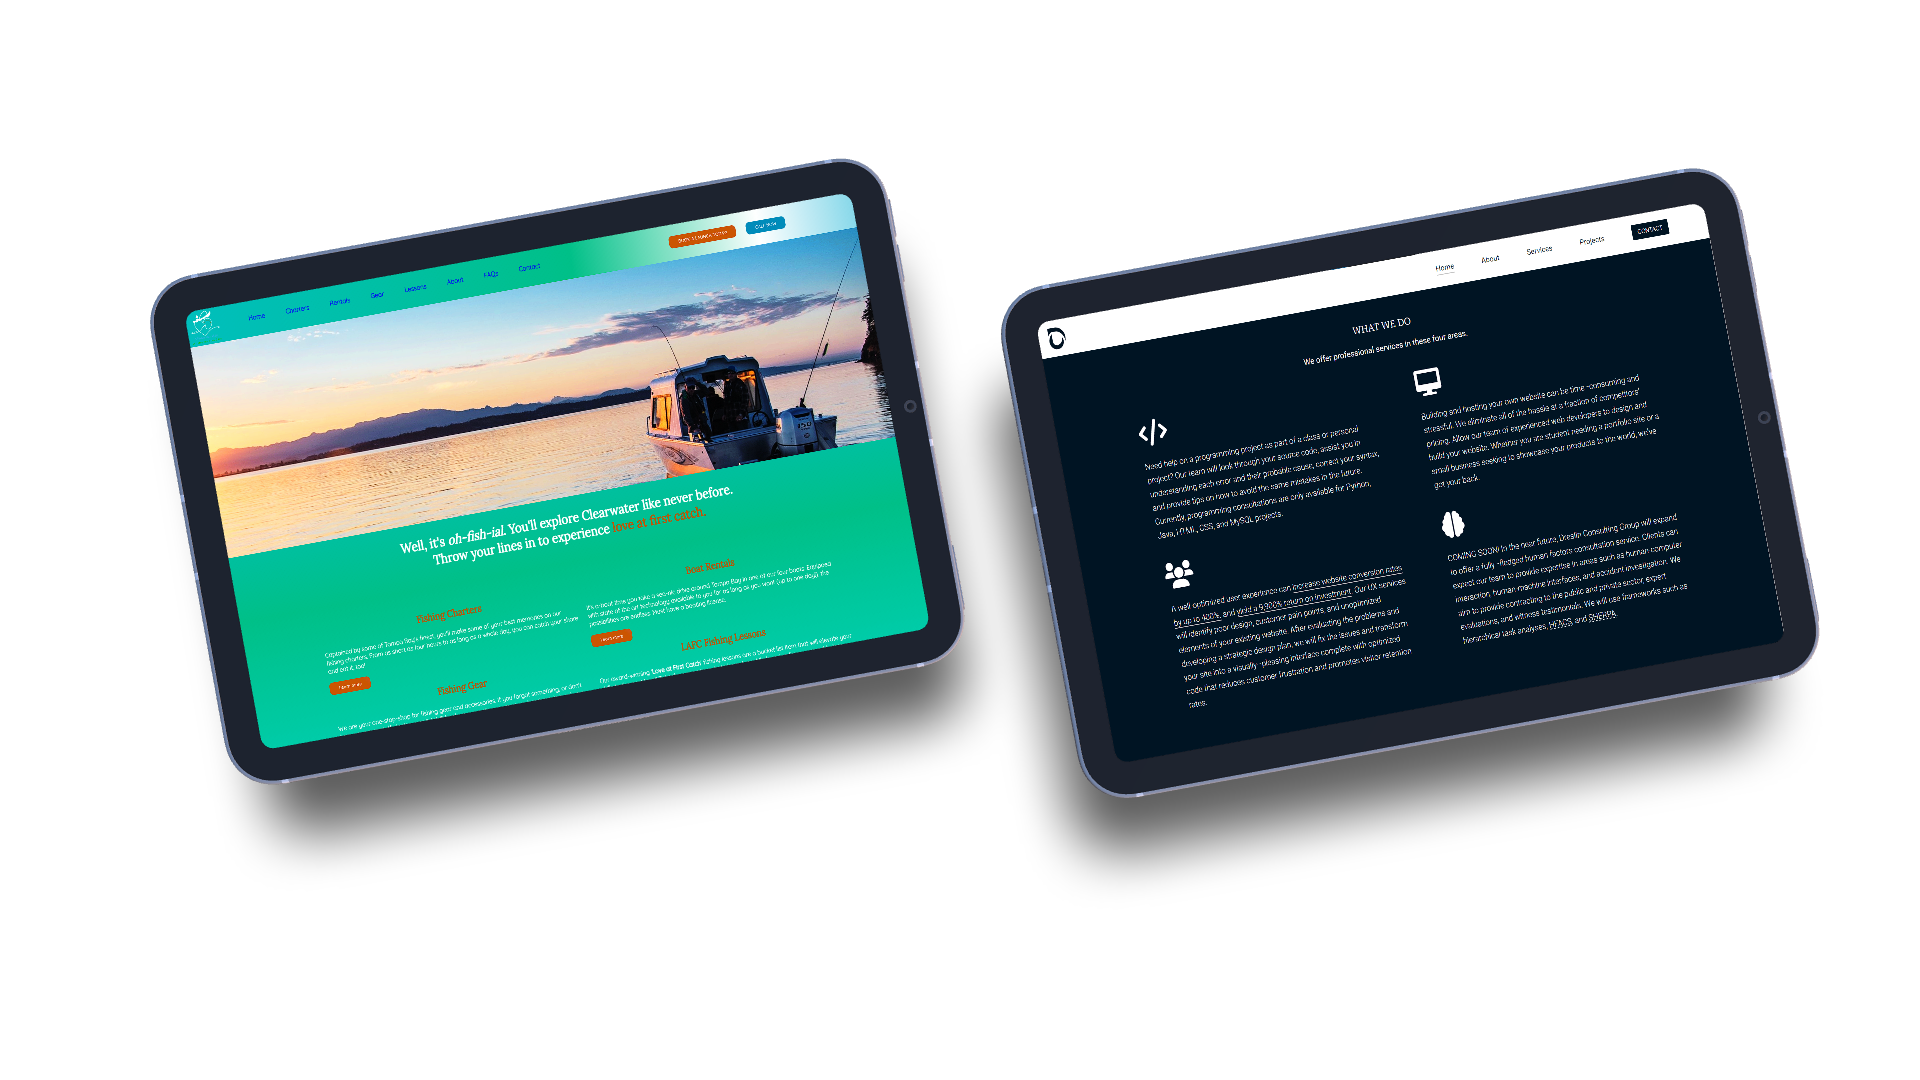
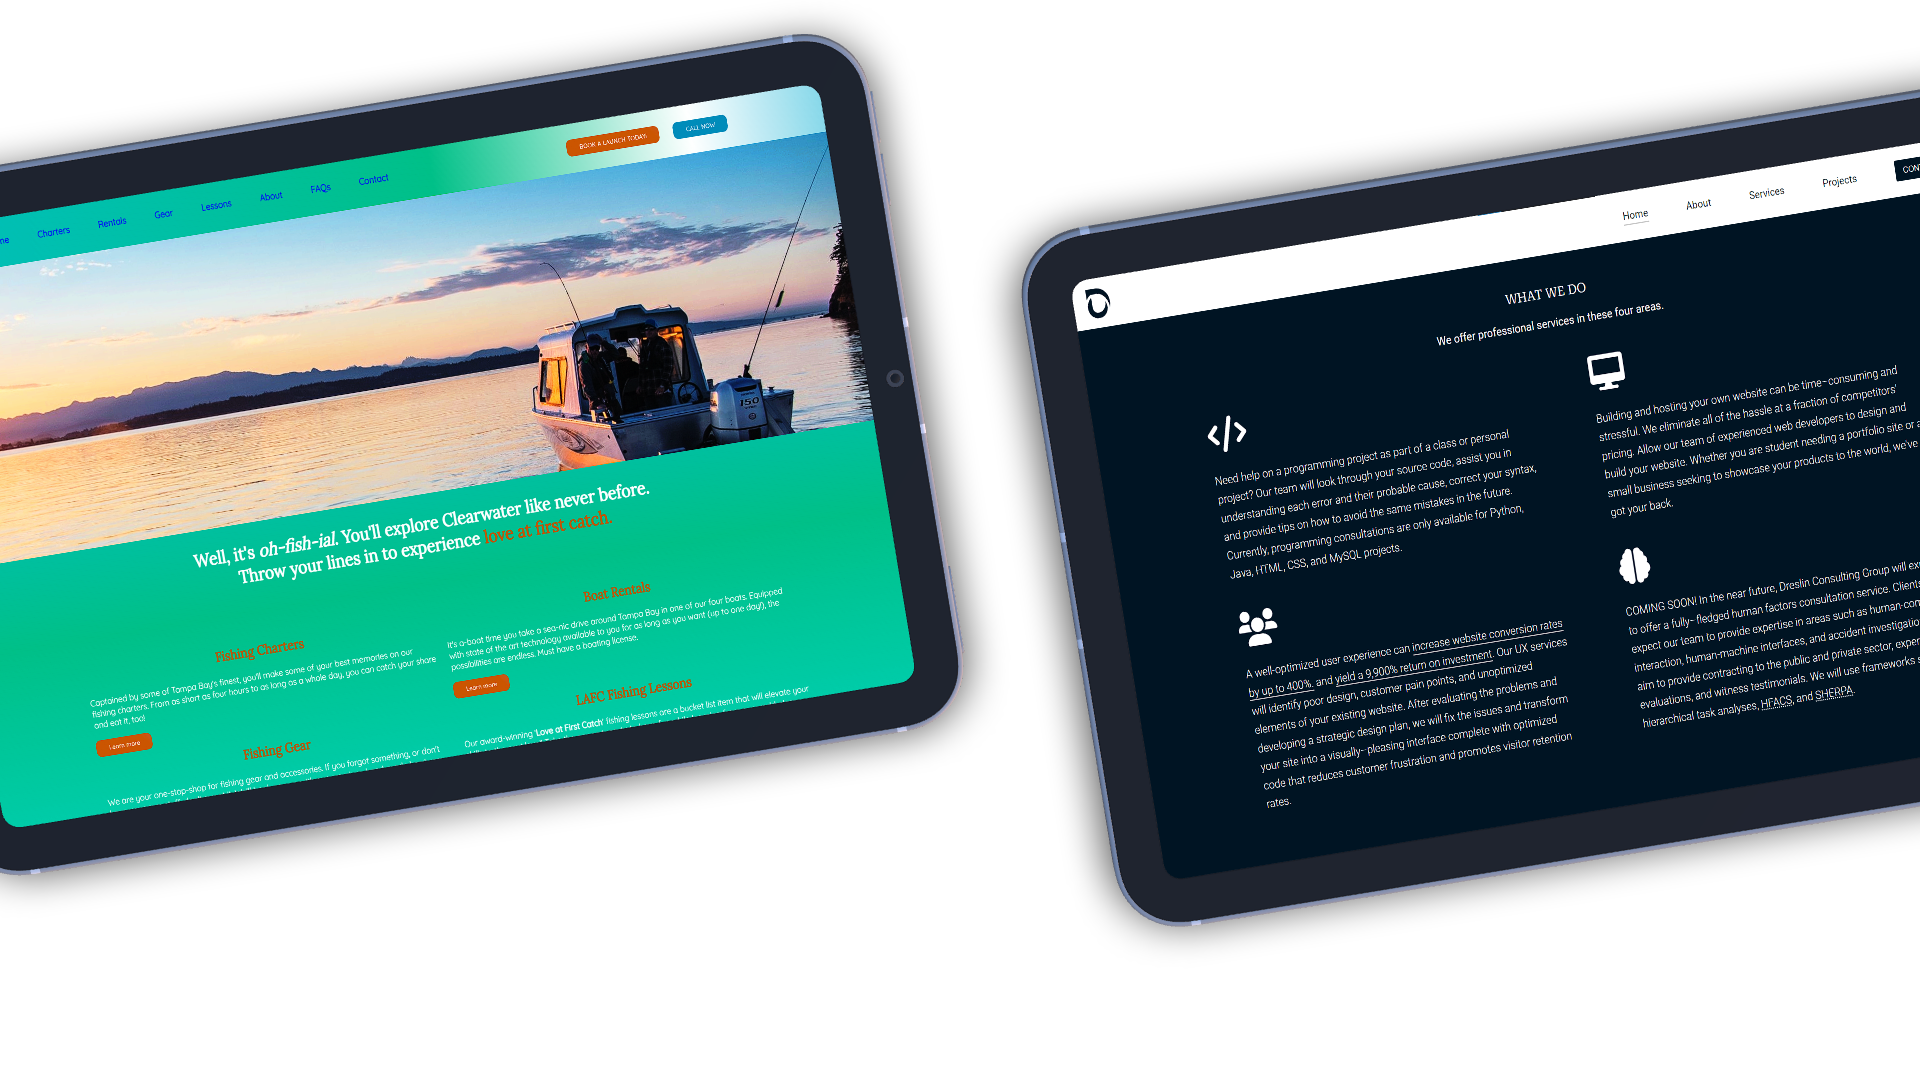
This fixes #3

diff --git a/services.html b/services.html
@@ -102,7 +102,7 @@
 					<p>If these sound interesting to you, we're the right team for your project.</p>
 				</div>
 				<button class="button button1 navbutton1 nav-link button-center" onclick="window.location.href='contact.html'">SEND PROJECT INQUIRY</button>
-				<img src="tablets-with-project-screenshots.png" height="600" width="1000" alt="Tabets with project screenshots" class="container--margin--short center-img img-resize cover reveal">
+				<img src="tablets-with-project-screenshots.png" height="" width="" alt="Tabets with project screenshots" class="container--margin--short mask-img center-img img-resize cover reveal">
 			</div>
 		</section>
 
